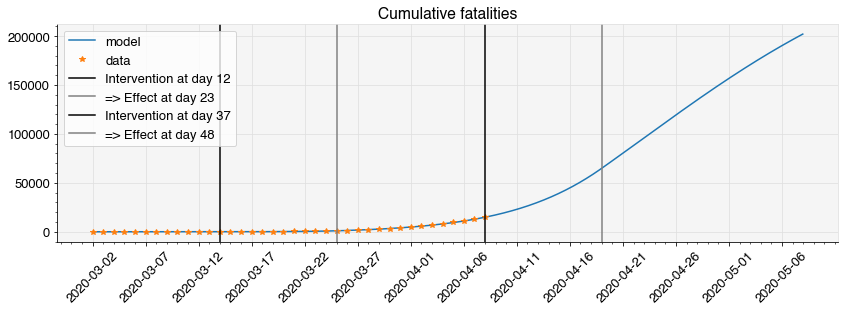
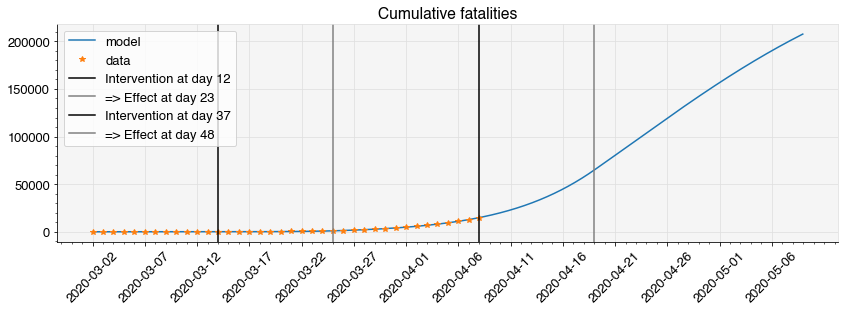
weekly crontab backup

diff --git a/01 - Daily_Report_Spain.md b/01 - Daily_Report_Spain.md
@@ -20,14 +20,14 @@ from ne_epidemic.utilities import sir_prediction_from_country
 sir_prediction_from_country('Spain')
 ```
 
-    Today's date: 2020-04-08 
+    Today's date: 2020-04-09 
     
     Country:  Spain
     - UCI database:  https://raw.githubusercontent.com/datadista/datasets/master/COVID%2019/ccaa_camas_uci_2017.csv
     - Total UCI beds:  4404
     - Fatalities database:  https://raw.githubusercontent.com/CSSEGISandData/COVID-19/master/csse_covid_19_data/csse_covid_19_time_series/time_series_covid19_deaths_global.csv
     - First day with more than 5 casualties (m/d/y):  3 / 7 / 2020
-    - Days since first fatalities:  32
+    - Days since first fatalities:  33
 
 
 
@@ -72,7 +72,7 @@ sir_prediction_from_country('Spain')
     
     Model name: optimized 2 pars
     
-    Simulated days: 46.0
+    Simulated days: 47.0
     Initially infected/Total population (N0/N): 35406/46660000 (75.9 per 100,000)
     beta (per day): 0.4 , nu (per day): 0.2
     1/beta (days): 2.3 , 1/nu (days): 5.0
@@ -87,18 +87,18 @@ sir_prediction_from_country('Spain')
     
     _____________________________________________________________________
     
-    MODEL'S OUTPUTS FOR TODAY: 2020-04-08
-       Infected: 1978167 (4.2%)
-       Recovered: 7509610 (16.1%)
-       Exposed to date: 9487777 (20.3%)
-       In ICU: 5538
-       Fatalities: 15019
+    MODEL'S OUTPUTS FOR TODAY: 2020-04-09
+       Infected: 1950052 (4.2%)
+       Recovered: 7902486 (16.9%)
+       Exposed to date: 9852538 (21.1%)
+       In ICU: 5460
+       Fatalities: 15804
      
-    MEDIUM TERM FORECAST (46 days from model start date): 
+    MEDIUM TERM FORECAST (47 days from model start date): 
        Percent of population exposed at end simulation: 28%
        Peak ICU admissions:  5800  on day 2020-04-01
        (note model does not account for long ICU stays)
-       Total fatalities at end of simulation: 23875
+       Total fatalities at end of simulation: 24316
 
 
 
@@ -124,5 +124,5 @@ sir_prediction_from_country('Spain')
           The derivative of the quadratic is used to estimate doubling time and R(t).
     Rt estimated from doubling time using nu= 0.2
     
-    Run finished 2020-04-08 21:59:31.026728
+    Run finished 2020-04-09 14:38:10.290753
 

diff --git a/03 - Daily_Report_US.md b/03 - Daily_Report_US.md
@@ -18,14 +18,14 @@ from ne_epidemic.utilities import sir_prediction_from_country
 sir_prediction_from_country('US')
 ```
 
-    Today's date: 2020-04-08 
+    Today's date: 2020-04-09 
     
     Country:  US
     - UCI database:  https://sccm.org/Blog/March-2020/United-States-Resource-Availability-for-COVID-19
     - Total UCI beds:  96596
     - Fatalities database:  https://raw.githubusercontent.com/CSSEGISandData/COVID-19/master/csse_covid_19_data/csse_covid_19_time_series/time_series_covid19_deaths_global.csv
     - First day with more than 5 casualties (m/d/y):  3 / 2 / 2020
-    - Days since first fatalities:  37
+    - Days since first fatalities:  38
 
 
 
@@ -70,7 +70,7 @@ sir_prediction_from_country('US')
     
     Model name: optimized 2 pars
     
-    Simulated days: 67.0
+    Simulated days: 68.0
     Initially infected/Total population (N0/N): 436/327200000 (0.1 per 100,000)
     beta (per day): 0.5 , nu (per day): 0.2
     1/beta (days): 1.9 , 1/nu (days): 5.0
@@ -85,18 +85,18 @@ sir_prediction_from_country('US')
     
     _____________________________________________________________________
     
-    MODEL'S OUTPUTS FOR TODAY: 2020-04-08
-       Infected: 5511795 (1.7%)
-       Recovered: 7426382 (2.3%)
-       Exposed to date: 12938177 (4.0%)
-       In ICU: 13779
-       Fatalities: 14852
+    MODEL'S OUTPUTS FOR TODAY: 2020-04-09
+       Infected: 6269390 (1.9%)
+       Recovered: 8603074 (2.6%)
+       Exposed to date: 14872464 (4.5%)
+       In ICU: 15673
+       Fatalities: 17206
      
-    MEDIUM TERM FORECAST (67 days from model start date): 
+    MEDIUM TERM FORECAST (68 days from model start date): 
        Percent of population exposed at end simulation: 35%
        Peak ICU admissions:  48996  on day 2020-04-22
        (note model does not account for long ICU stays)
-       Total fatalities at end of simulation: 201972
+       Total fatalities at end of simulation: 207661
 
 
 
@@ -122,5 +122,5 @@ sir_prediction_from_country('US')
           The derivative of the quadratic is used to estimate doubling time and R(t).
     Rt estimated from doubling time using nu= 0.2
     
-    Run finished 2020-04-08 21:59:55.024528
+    Run finished 2020-04-09 14:38:33.839428
 

diff --git a/00 - Data_Overview.md b/00 - Data_Overview.md
@@ -24,7 +24,7 @@ _ = get_doubling_time(df, nu=1/5, ndays=7)
 
     - Fatalities database:  https://raw.githubusercontent.com/CSSEGISandData/COVID-19/master/csse_covid_19_data/csse_covid_19_time_series/time_series_covid19_deaths_global.csv
     - First day with more than 5 casualties (m/d/y):  3 / 7 / 2020
-    - Days since first fatalities:  32
+    - Days since first fatalities:  33
 
 
 
@@ -59,7 +59,7 @@ _ = get_doubling_time(df, nu=1/5, ndays=7)
 
     - Fatalities database:  https://raw.githubusercontent.com/CSSEGISandData/COVID-19/master/csse_covid_19_data/csse_covid_19_time_series/time_series_covid19_deaths_global.csv
     - First day with more than 5 casualties (m/d/y):  2 / 24 / 2020
-    - Days since first fatalities:  44
+    - Days since first fatalities:  45
 
 
 
@@ -94,7 +94,7 @@ _ = get_doubling_time(df, nu=1/5, ndays=7)
 
     - Fatalities database:  https://raw.githubusercontent.com/CSSEGISandData/COVID-19/master/csse_covid_19_data/csse_covid_19_time_series/time_series_covid19_deaths_global.csv
     - First day with more than 5 casualties (m/d/y):  3 / 20 / 2020
-    - Days since first fatalities:  19
+    - Days since first fatalities:  20
 
 
 
@@ -129,7 +129,7 @@ _ = get_doubling_time(df, nu=1/5, ndays=7)
 
     - Fatalities database:  https://raw.githubusercontent.com/CSSEGISandData/COVID-19/master/csse_covid_19_data/csse_covid_19_time_series/time_series_covid19_deaths_global.csv
     - First day with more than 5 casualties (m/d/y):  3 / 5 / 2020
-    - Days since first fatalities:  34
+    - Days since first fatalities:  35
 
 
 
@@ -164,7 +164,7 @@ _ = get_doubling_time(df, nu=1/5, ndays=7)
 
     - Fatalities database:  https://raw.githubusercontent.com/CSSEGISandData/COVID-19/master/csse_covid_19_data/csse_covid_19_time_series/time_series_covid19_deaths_global.csv
     - First day with more than 5 casualties (m/d/y):  3 / 2 / 2020
-    - Days since first fatalities:  37
+    - Days since first fatalities:  38
 
 
 
